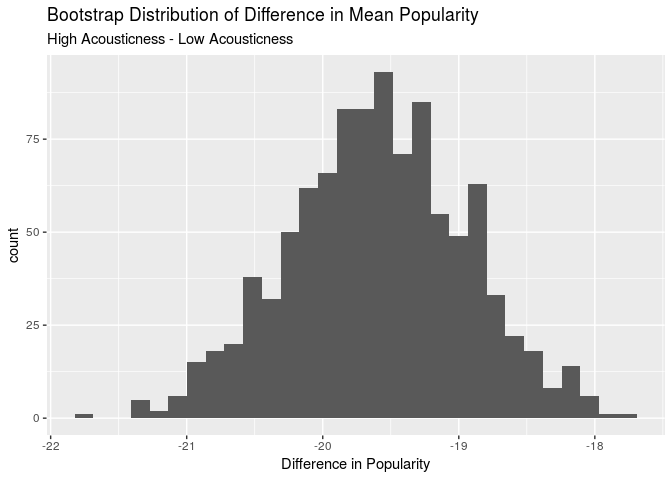
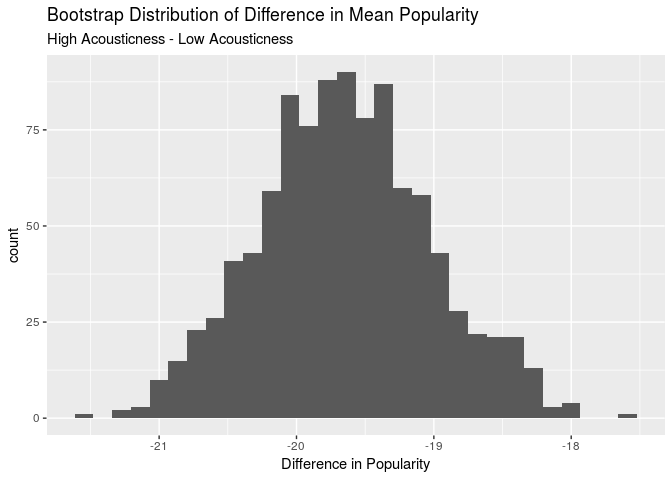
fixed typo

diff --git a/project/project.md b/project/project.md
@@ -671,15 +671,15 @@ the difference in mean popularity scores between the Rap and Pop genres
     ## # A tibble: 1 x 1
     ##   lower_bound
     ##         <dbl>
-    ## 1        3.87
+    ## 1        3.63
 
     ## # A tibble: 1 x 1
     ##   upper_bound
     ##         <dbl>
-    ## 1        6.98
+    ## 1        6.94
 
 We are 95% certain that the difference in means between the popularity
-score of the rap and pop genres is between 3.8697591 and 6.9843596.
+score of the rap and pop genres is between 3.6322097 and 6.9427425.
 
 ### Time Signature
 
@@ -706,16 +706,16 @@ signature.
     ## # A tibble: 1 x 1
     ##   lower_bound
     ##         <dbl>
-    ## 1        10.5
+    ## 1        10.3
 
     ## # A tibble: 1 x 1
     ##   upper_bound
     ##         <dbl>
-    ## 1        13.4
+    ## 1        13.3
 
 We are 95% certain that the difference in popularity means between the
 songs with higher (highest 25%) time\_signature and the lower (lowest
-25%) time\_signature is between 10.496159 and 13.3522235.
+25%) time\_signature is between 10.3330298 and 13.2914775.
 
 ### Confidence intervals for continous variables
 
@@ -759,11 +759,11 @@ Songs with high danceability have a mean popularity score that is around
     ## # A tibble: 1 x 1
     ##   upper_bound
     ##         <dbl>
-    ## 1        12.3
+    ## 1        12.2
 
 We are 95% certain that the difference in popularity means between the
-songs with high danceability and low danceability is between 10.0644013
-and 12.2550735.
+songs with high danceability and low danceability is between 10.1157459
+and 12.2335473.
 
 ### Energy
 
@@ -797,7 +797,7 @@ higher compared songs with low
     ## 1        13.9
 
 We are 95% certain that the difference in means between songs with high
-energy and low energy is between 11.2271226 and 13.9134096.
+energy and low energy is between 11.1802659 and 13.880382.
 
 ### Liveness
 
@@ -823,15 +823,15 @@ liveness.
     ## # A tibble: 1 x 1
     ##   lower_bound
     ##         <dbl>
-    ## 1       -7.40
+    ## 1       -7.41
 
     ## # A tibble: 1 x 1
     ##   upper_bound
     ##         <dbl>
-    ## 1       -4.69
+    ## 1       -4.60
 
 We are 95% certain that the difference in popularity means between songs
-with high liveness and low liveness is between-7.3992985 and -4.6896393.
+with high liveness and low liveness is between-7.4113724 and -4.5951704.
 
 ### Loudness
 
@@ -862,11 +862,11 @@ higher compared with songs with low
     ## # A tibble: 1 x 1
     ##   upper_bound
     ##         <dbl>
-    ## 1        20.9
+    ## 1        21.0
 
 We are 95% certain that the difference in mean popularity scores between
-songs with high loudness and the low loudness is between 18.3855711 and
-20.9102096.
+songs with high loudness and the low loudness is between 18.4429662 and
+20.9865323.
 
 ### Acousticness
 
@@ -892,16 +892,16 @@ Songs with high acousticness have a mean popularity score that is around
     ## # A tibble: 1 x 1
     ##   lower_bound
     ##         <dbl>
-    ## 1       -20.9
+    ## 1       -20.8
 
     ## # A tibble: 1 x 1
     ##   upper_bound
     ##         <dbl>
-    ## 1       -18.3
+    ## 1       -18.4
 
 We are 95% certain that the difference in popularity means between songs
-with high acousticness and the low acousticness is between -20.8781871
-and -18.3312398.
+with high acousticness and the low acousticness is between -20.8498802
+and -18.3795747.
 
 ### Valence
 
@@ -927,15 +927,15 @@ higher compared songs with low
     ## # A tibble: 1 x 1
     ##   lower_bound
     ##         <dbl>
-    ## 1        4.58
+    ## 1        4.59
 
     ## # A tibble: 1 x 1
     ##   upper_bound
     ##         <dbl>
-    ## 1        7.36
+    ## 1        7.37
 
 We are 95% certain that the difference in means between songs with high
-valence and low valence is between 4.5777989 and 7.3586448.
+valence and low valence is between 4.5890988 and 7.3676782.
 
 ### Conclusion
 
